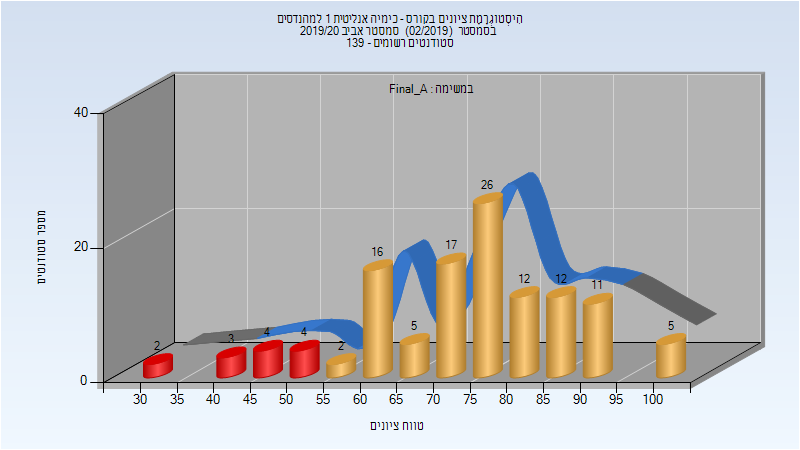
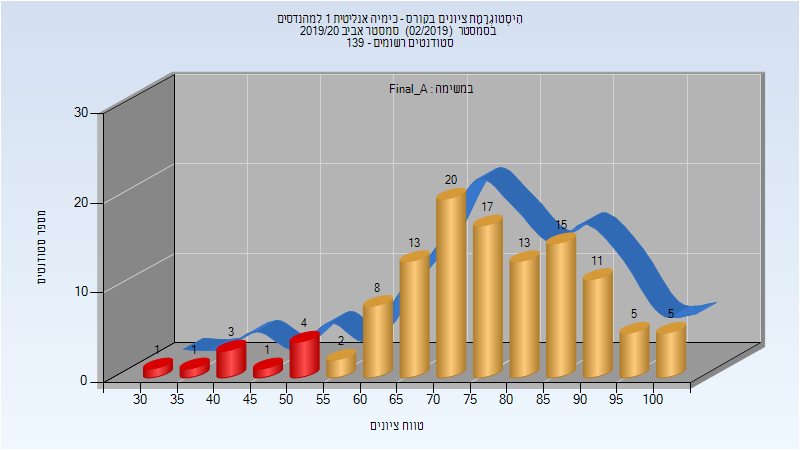
Deploy michael-maltsev/technion-histograms to github.com/michael-maltsev/technion-histograms.git:gh-pages

diff --git a/125101/index.html b/125101/index.html
@@ -757,11 +757,11 @@
 <tbody>
 <tr>
 <td>119</td>
-<td>106/13</td>
-<td>89</td>
+<td>109/10</td>
+<td>92</td>
 <td>34</td>
 <td>100</td>
-<td>72.395</td>
+<td>74.479</td>
 <td>74</td>
 </tr>
 </tbody>
@@ -783,11 +783,11 @@
 <tbody>
 <tr>
 <td>119</td>
-<td>106/13</td>
-<td>89</td>
+<td>109/10</td>
+<td>92</td>
 <td>34</td>
 <td>100</td>
-<td>73.983</td>
+<td>76.109</td>
 <td>76</td>
 </tr>
 </tbody>

diff --git a/125101/README.md b/125101/README.md
@@ -235,7 +235,7 @@
 
 | סטודנטים | עברו/נכשלו | אחוז עוברים | ציון מינימלי | ציון מקסימלי | ממוצע | חציון |
 | ---- | ---- | ---- | ---- | ---- | ---- | ---- |
-| 119 | 106/13 | 89 | 34 | 100 | 72.395 | 74 |
+| 119 | 109/10 | 92 | 34 | 100 | 74.479 | 74 |
 
 ### סופי מועד א'
 
@@ -243,5 +243,5 @@
 
 | סטודנטים | עברו/נכשלו | אחוז עוברים | ציון מינימלי | ציון מקסימלי | ממוצע | חציון |
 | ---- | ---- | ---- | ---- | ---- | ---- | ---- |
-| 119 | 106/13 | 89 | 34 | 100 | 73.983 | 76 |
+| 119 | 109/10 | 92 | 34 | 100 | 76.109 | 76 |
 
